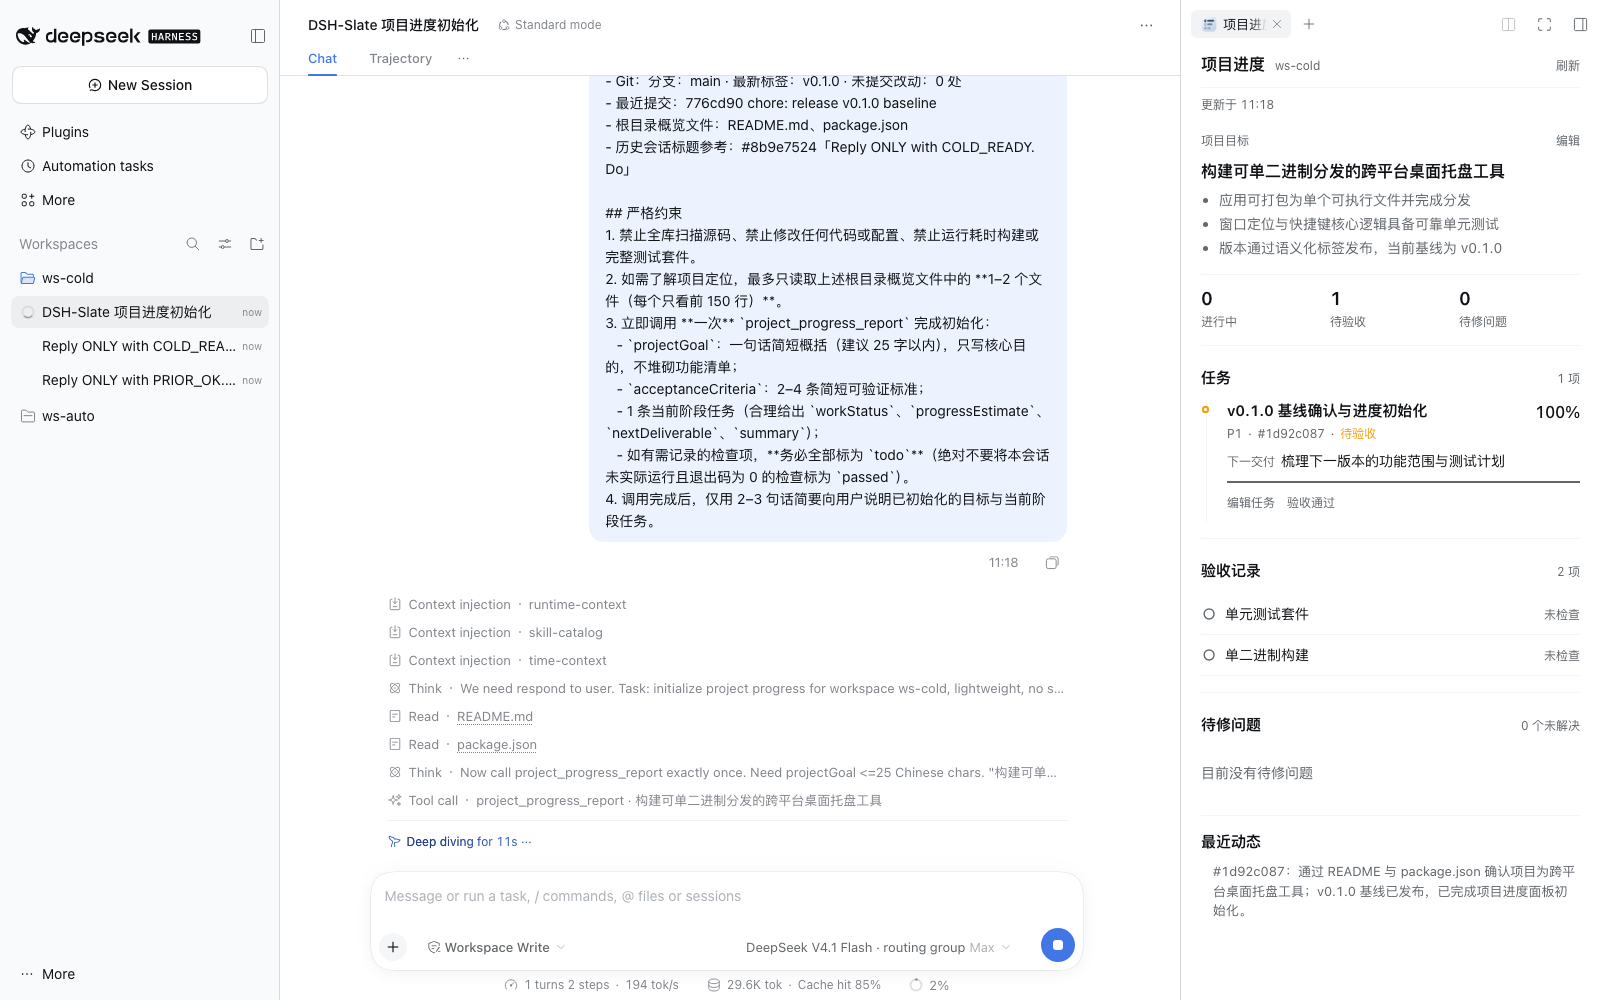
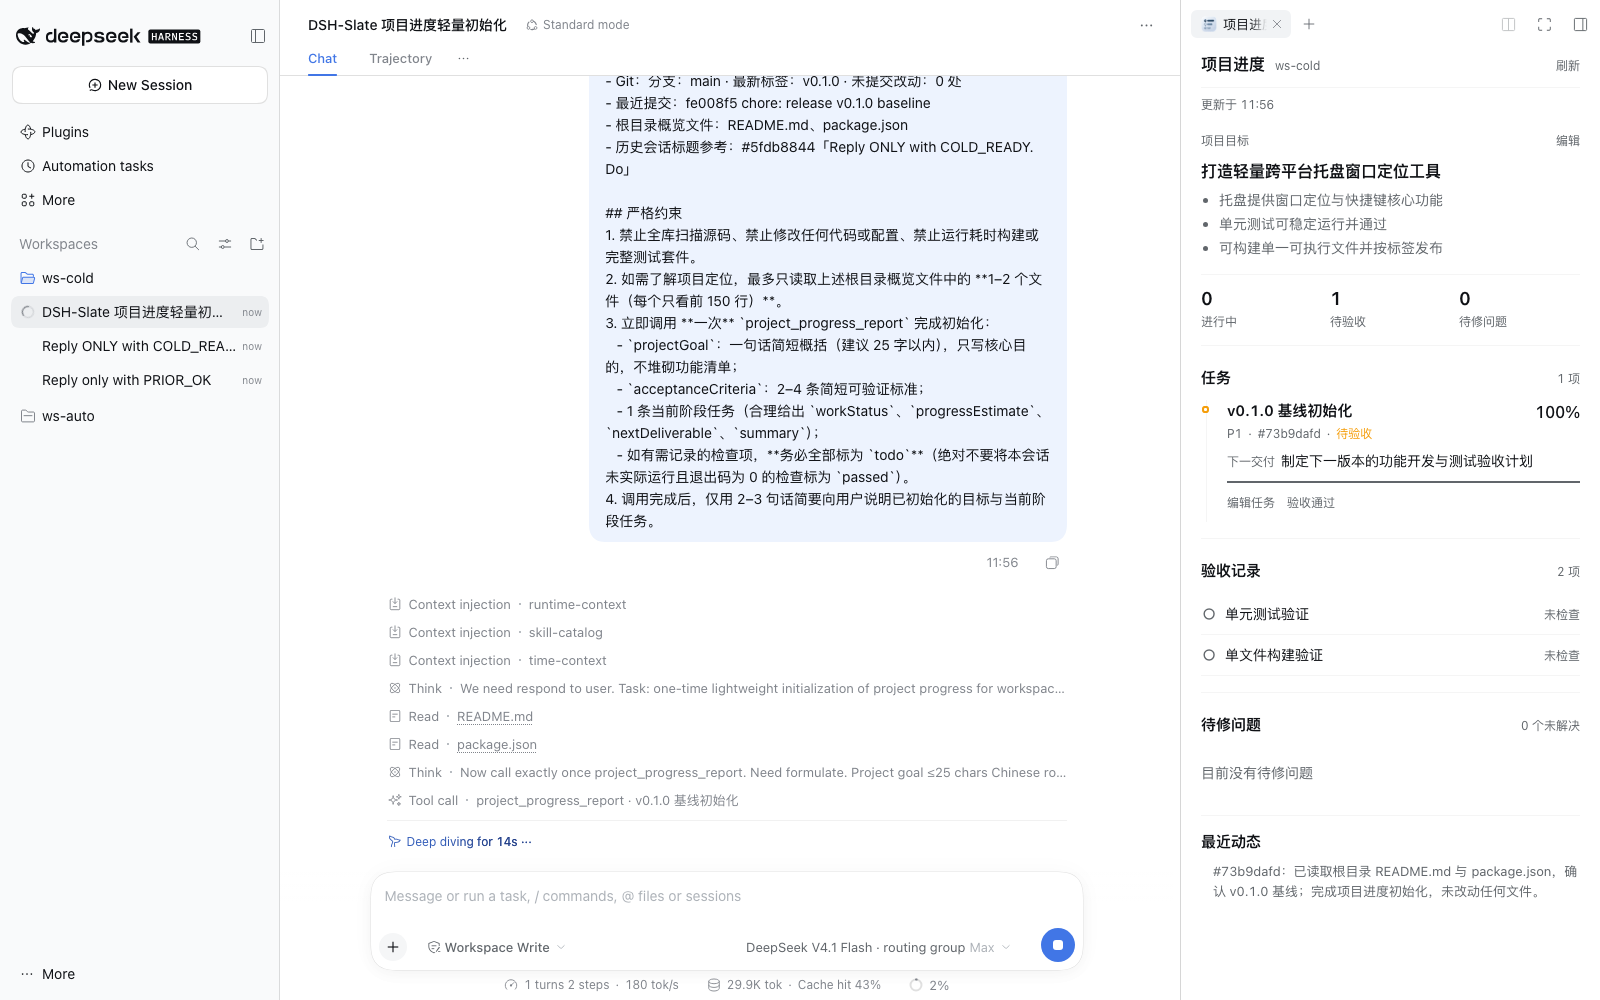
fix(domain): suppress verified-task failed checks from priority focus and prompt

diff --git a/plugin/src/prompt.js b/plugin/src/prompt.js
@@ -78,8 +78,9 @@ export function formatSlatePromptSection(project) {
     }
   }
 
+  const verifiedTaskIds = new Set(view.tasks.filter((task) => task.verified).map((task) => task.id));
   const failedChecks = Array.isArray(view.checks)
-    ? view.checks.filter((check) => check.state === 'failed')
+    ? view.checks.filter((check) => check.state === 'failed' && !verifiedTaskIds.has(check.taskId))
     : [];
   if (failedChecks.length > 0) {
     lines.push('- 未通过检查（修复并实测通过后，务必沿用对应 `taskId` 汇报以替换旧失败记录）：');

diff --git a/plugin/src/domain.js b/plugin/src/domain.js
@@ -586,6 +586,8 @@ function selectPriorityFocus(project, tasksById) {
 
   for (const check of project.checks) {
     if (check.state !== 'failed') continue;
+    const ownerTask = check.taskId ? tasksById.get(check.taskId) : null;
+    if (ownerTask?.verified) continue;
     candidates.push({
       rank: 1,
       kind: 'check',

diff --git a/HANDOFF.md b/HANDOFF.md
@@ -39,7 +39,7 @@ npm pack --dry-run
 ## 本轮已验证项
 
 - **发布前逻辑修复与元数据收口**：
-  - `src/domain.js`、`src/prompt.js` & `src/tool.js`：同一 `taskId` 收到后续实测 `passed`/`failed` 检查时自动清理同任务遗留未执行 `todo` 占位及已被同命令/同标题/实测通过并完成替代的旧 `failed` 检查；`resolveTaskId` 在同一会话已有唯一未验收任务且未传 `taskId` 时自动复用（修复 TDD 红转绿改名产生重复红灯卡片）；相邻重复动态去重；系统提示暴露「未通过检查」(`taskId`/`checkId`) 并引导子任务汇报省略 `projectGoal`/`acceptanceCriteria`。
+  - `src/domain.js`、`src/prompt.js` & `src/tool.js`：同一 `taskId` 收到后续实测 `passed`/`failed` 检查时自动清理同任务遗留未执行 `todo` 占位及已被同命令/同标题/实测通过并完成替代的旧 `failed` 检查；`resolveTaskId` 在同一会话已有唯一未验收任务且未传 `taskId` 时自动复用（修复 TDD 红转绿改名产生重复红灯卡片）；用户手动点击「验收通过」的任务，其历史 `failed` 检查从顶部「优先处理」与提示词「未通过检查」中忽略（同时在 `验收记录` 如实保留历史 `failed` 记录）；相邻重复动态去重；引导子任务汇报省略 `projectGoal`/`acceptanceCriteria`。
   - `src/bootstrap.js` & `src/client.js`：通过 `typertGateway` 查询 `session/list`（`8000ms` 超时），过滤 `workspaceRegistry.archivedSessionIds`、`blank` 草稿、`origin === 'subagent'` 与已缺失日志的旧会话 ID，并修复 newest-first `sessionIds` 截断排序；客户端同时直接订阅 `useSessions((s) => s?.byId)` 与 `useWorkspaces`（`items` / `archivedSessionIds`）同步左侧栏真实标题，空态历史会话改用全宽纵向行表展示并默认显示 3 条，支持 `展开其余 N 个` / `收起` 查看全部，Quick Init prompt 仍严格上限 5 条引用。
   - `locale/{en,zh}.json`、`docs/plugin-page.{en,zh-CN}.md`、双语 README、`RELEASE.md`、`MARKETPLACE.md`、`LICENSE`、`screenshots.json`（6 张）及 `.github/workflows/{ci,release}.yml` 就绪。
 - `npm run verify && npm pack --dry-run`（最新运行）：构建 `lib/client.js`（`63476` bytes），发布元数据、`icon`、6 张截图、`screenshots.json`、单色规则与 `14/14` 单元/并发测试全部通过；打包产物不含 `prototype-plugin/`、`test/` 与临时文件。
@@ -51,5 +51,4 @@ npm pack --dry-run
 
 ## 下一步（如后续迭代）
 
-- 用户**重启 DeepSeek Harness 桌面端**后继续第 4–5 步复测：重点确认 TDD 红→绿改名不复制红灯任务、实测通过后替换旧失败检查、以及手动锁定/恢复/拖宽/深浅色切换。
-- 确认通过后按 [MARKETPLACE.md](MARKETPLACE.md) 执行：创建 GitHub 公开仓库并推送 `main` → 配置 npm OIDC Trusted Publishing → 发布 `v0.1.0` Release 自动发布 npm → 向 `awesome-dsh-plugin` 提交 `light-cheng__DSH-Slate.yml`。
+- 用户**重启 DeepSeek Harness 桌面端**打开 `pocket-ledger` 确认顶部遗留的「优先处理 · 失败」自动消退（可在 `pocket-ledger` 再确认是否需要清理测试面板），随后确认是否开始发布：创建 GitHub 公开仓库并推送 `main` → 配置 npm OIDC Trusted Publishing → 发布 `v0.1.0` Release 自动发布 npm → 向 `awesome-dsh-plugin` 提交 `light-cheng__DSH-Slate.yml`。
